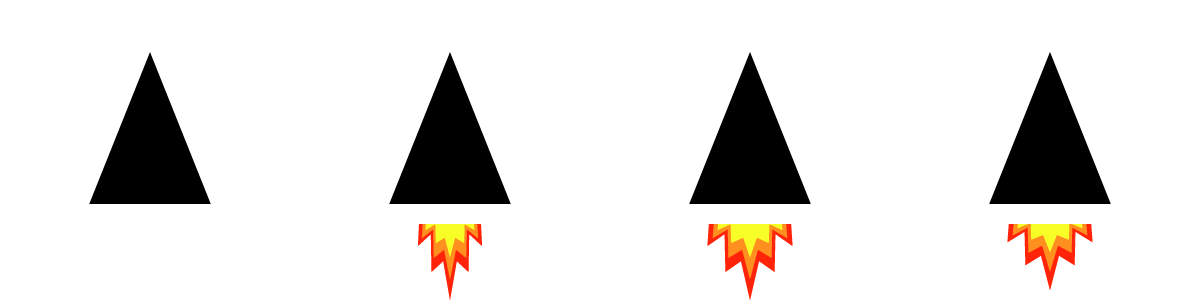
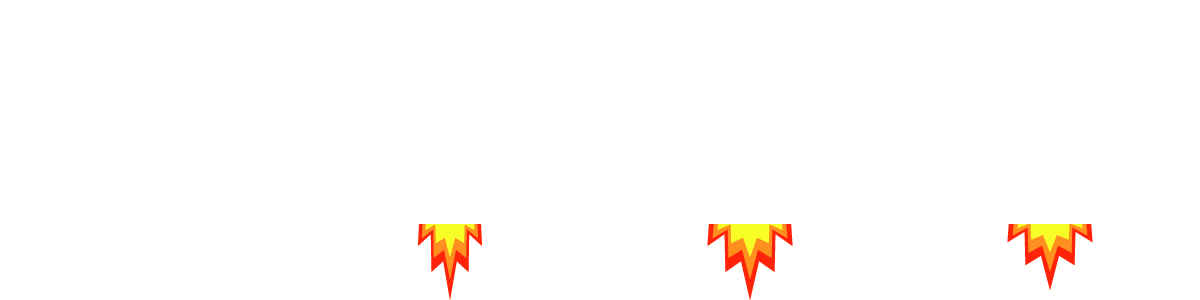
add alternative shot meter

diff --git a/src/gameobjects.cpp b/src/gameobjects.cpp
@@ -111,6 +111,28 @@ void Ship::update(ControlBools controlBools, int windowWidth, int windowHeight, 
 
 void Ship::render(SDL_Renderer*renderer, SDL_Texture *shipTex)
 {
+    //inner triangle
+    SDL_Color black = {0, 0, 0, 255};
+    SDL_Color meterColor;
+    if (canShoot)
+    {
+        meterColor = {0, 200, 0, 255};
+    } else {
+        meterColor = {200, 0, 0, 255};
+    }
+    
+    SDL_Point shipNose;
+    float noseDistanceToMid = height * 0.42;
+    shipNose.x = midPos[0] + SDL_sinf(shipAngle/180 * PI) * noseDistanceToMid;
+    shipNose.y = midPos[1] - SDL_cosf(shipAngle/180 * PI) * noseDistanceToMid;
+
+    float shotMeterValue = std::min(shotCounter/maxShotCounter , 1.0f);
+
+    drawTriangle(renderer, shipNose.x, shipNose.y, (float)width * 0.5, (float)height * 0.625, shipAngle, black);
+    if (shotMeterValue > 0.1f) drawTriangle(renderer, shipNose.x, shipNose.y, shotMeterValue * (float)width * 0.5, shotMeterValue * (float)height * 0.625, shipAngle, meterColor);
+    
+    
+    //outer texture
     SDL_Rect srcR;
     SDL_Rect destR = getRect();
     srcR.w = 300;
@@ -131,6 +153,7 @@ void Ship::render(SDL_Renderer*renderer, SDL_Texture *shipTex)
     }
 
     SDL_RenderCopyEx(renderer, shipTex, &srcR, &destR, shipAngle, NULL, SDL_FLIP_NONE);
+
 }
 
 void Ship::respawn(SDL_Renderer *renderer){

diff --git a/src/shapes.cpp b/src/shapes.cpp
@@ -35,3 +35,23 @@ void drawCircle(SDL_Renderer *renderer, int x0, int y0, int radius)
         }
     }
 }
+
+void drawTriangle(SDL_Renderer *renderer, float x0, float y0, float width, float height, float angle, SDL_Color color)
+{
+
+    float borderLine = SDL_sqrtf((width/2)*(width/2) + height * height);
+    float anglePoint = SDL_acosf(height/borderLine);
+
+    SDL_FPoint peakPoint = {x0, y0}; 
+    SDL_FPoint bottomLeftPoint = {x0 + borderLine * SDL_sinf(-angle/180.0 * 3.1415  + anglePoint), y0 + borderLine * SDL_cosf(-angle/180.0 * 3.1415  + anglePoint)};
+    SDL_FPoint bottomRightPoint = {x0 + borderLine * SDL_sinf(-angle/180.0 * 3.1415  - anglePoint), y0 + borderLine * SDL_cosf(-angle/180.0 * 3.1415  - anglePoint)};
+    
+    std::vector< SDL_Vertex > verts =
+    {
+        { peakPoint, color, SDL_FPoint{ 0 }, },
+        { bottomLeftPoint, color, SDL_FPoint{ 0 }, },
+        { bottomRightPoint, color, SDL_FPoint{ 0 }, },
+    };
+
+    SDL_RenderGeometry(renderer, nullptr, verts.data(), verts.size(), nullptr, 0);
+}

diff --git a/src/game.cpp b/src/game.cpp
@@ -153,7 +153,7 @@ void Game::init(const char* title, int xpos, int ypos, int width, int height, bo
     initAsteroids(ship, windowWidth, windowHeight);
 
     score = 0;
-    life = 1;
+    life = 3;
     bombCount = 0;
 
     lastUpdateTime = SDL_GetTicks();
@@ -510,7 +510,7 @@ void Game::render()
     UIFPS.render(renderer);
 
     // ShotMeter
-    shotMeter.render(renderer, ship.canShoot);
+    //shotMeter.render(renderer, ship.canShoot);
 
     if (life == 0) {
         SDL_SetRenderDrawBlendMode(renderer, SDL_BLENDMODE_BLEND);

diff --git a/src/shapes.hpp b/src/shapes.hpp
@@ -1,8 +1,12 @@
+#include "SDL2/SDL.h"
+#include <iostream>
+#include <vector>
+
 #ifndef SHAPES_HPP
 #define SHAPES_HPP
 
-#include "SDL2/SDL.h"
 
 void drawCircle (SDL_Renderer *renderer, int x0, int y0, int radius);
+void drawTriangle (SDL_Renderer *renderer, float x0, float y0, float width, float height, float angle, SDL_Color color);
 
 #endif // SHAPES_HPP

diff --git a/src/gameobjects.hpp b/src/gameobjects.hpp
@@ -8,6 +8,7 @@
 #include <stdexcept>
 
 #include "handleinput.hpp"
+#include "shapes.hpp"
 
 
 class GameObject
